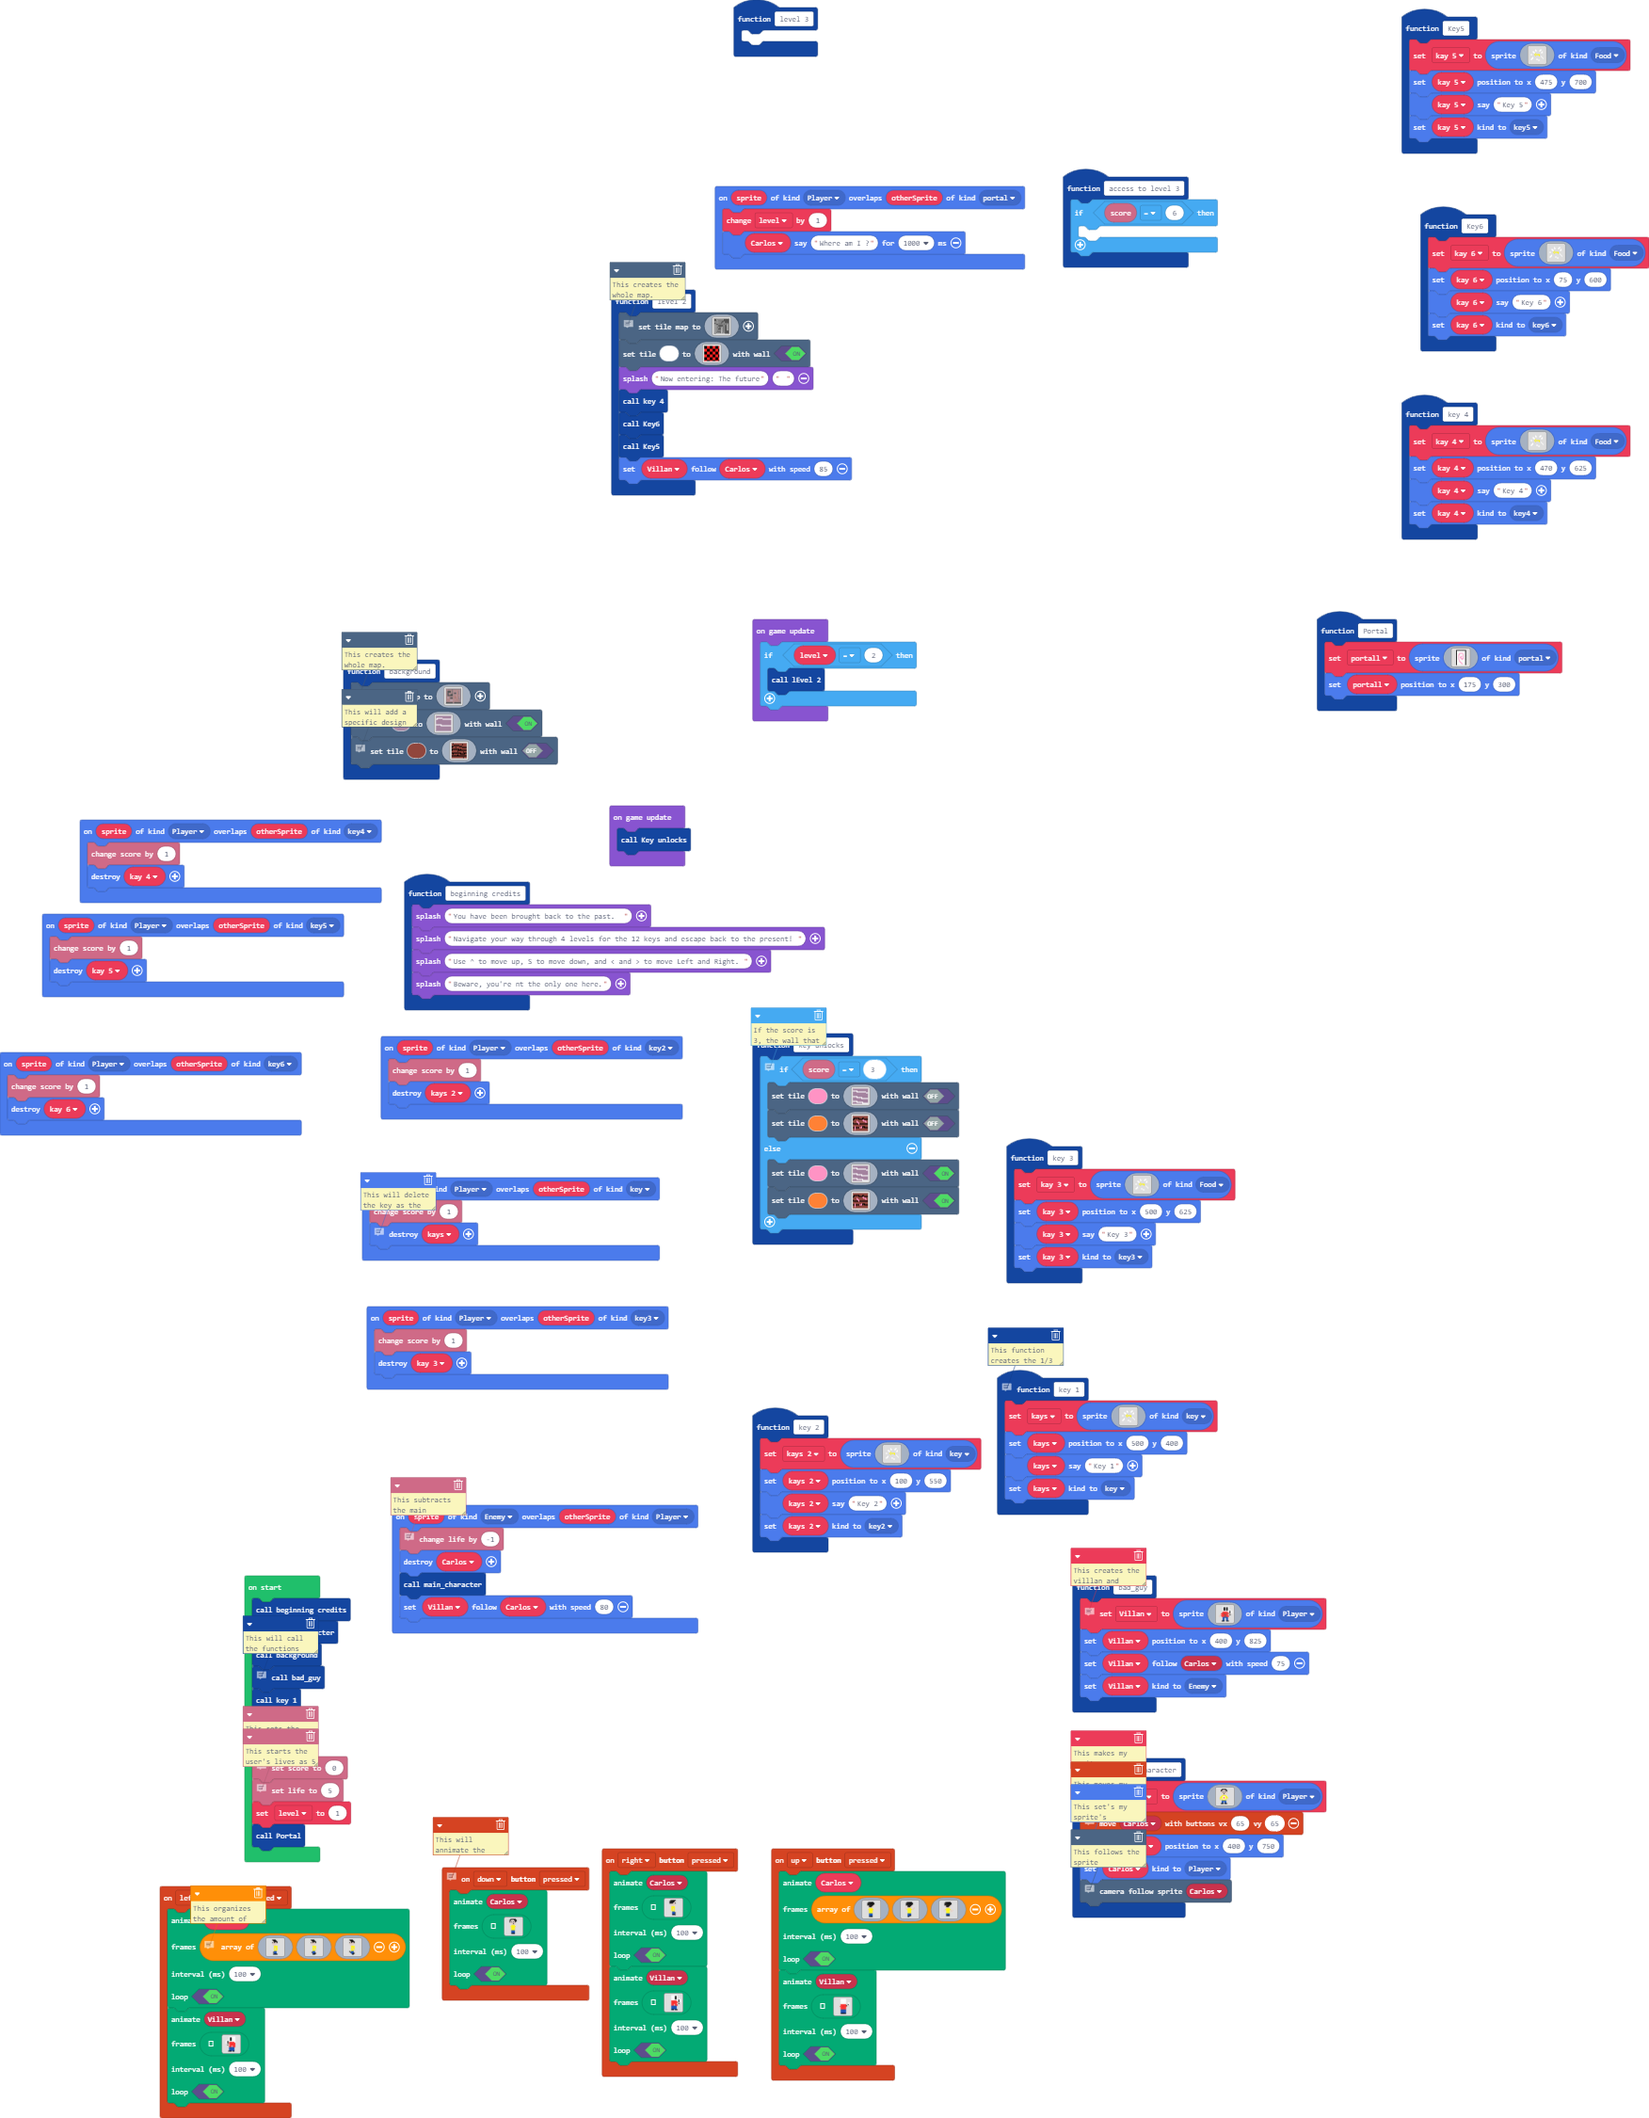
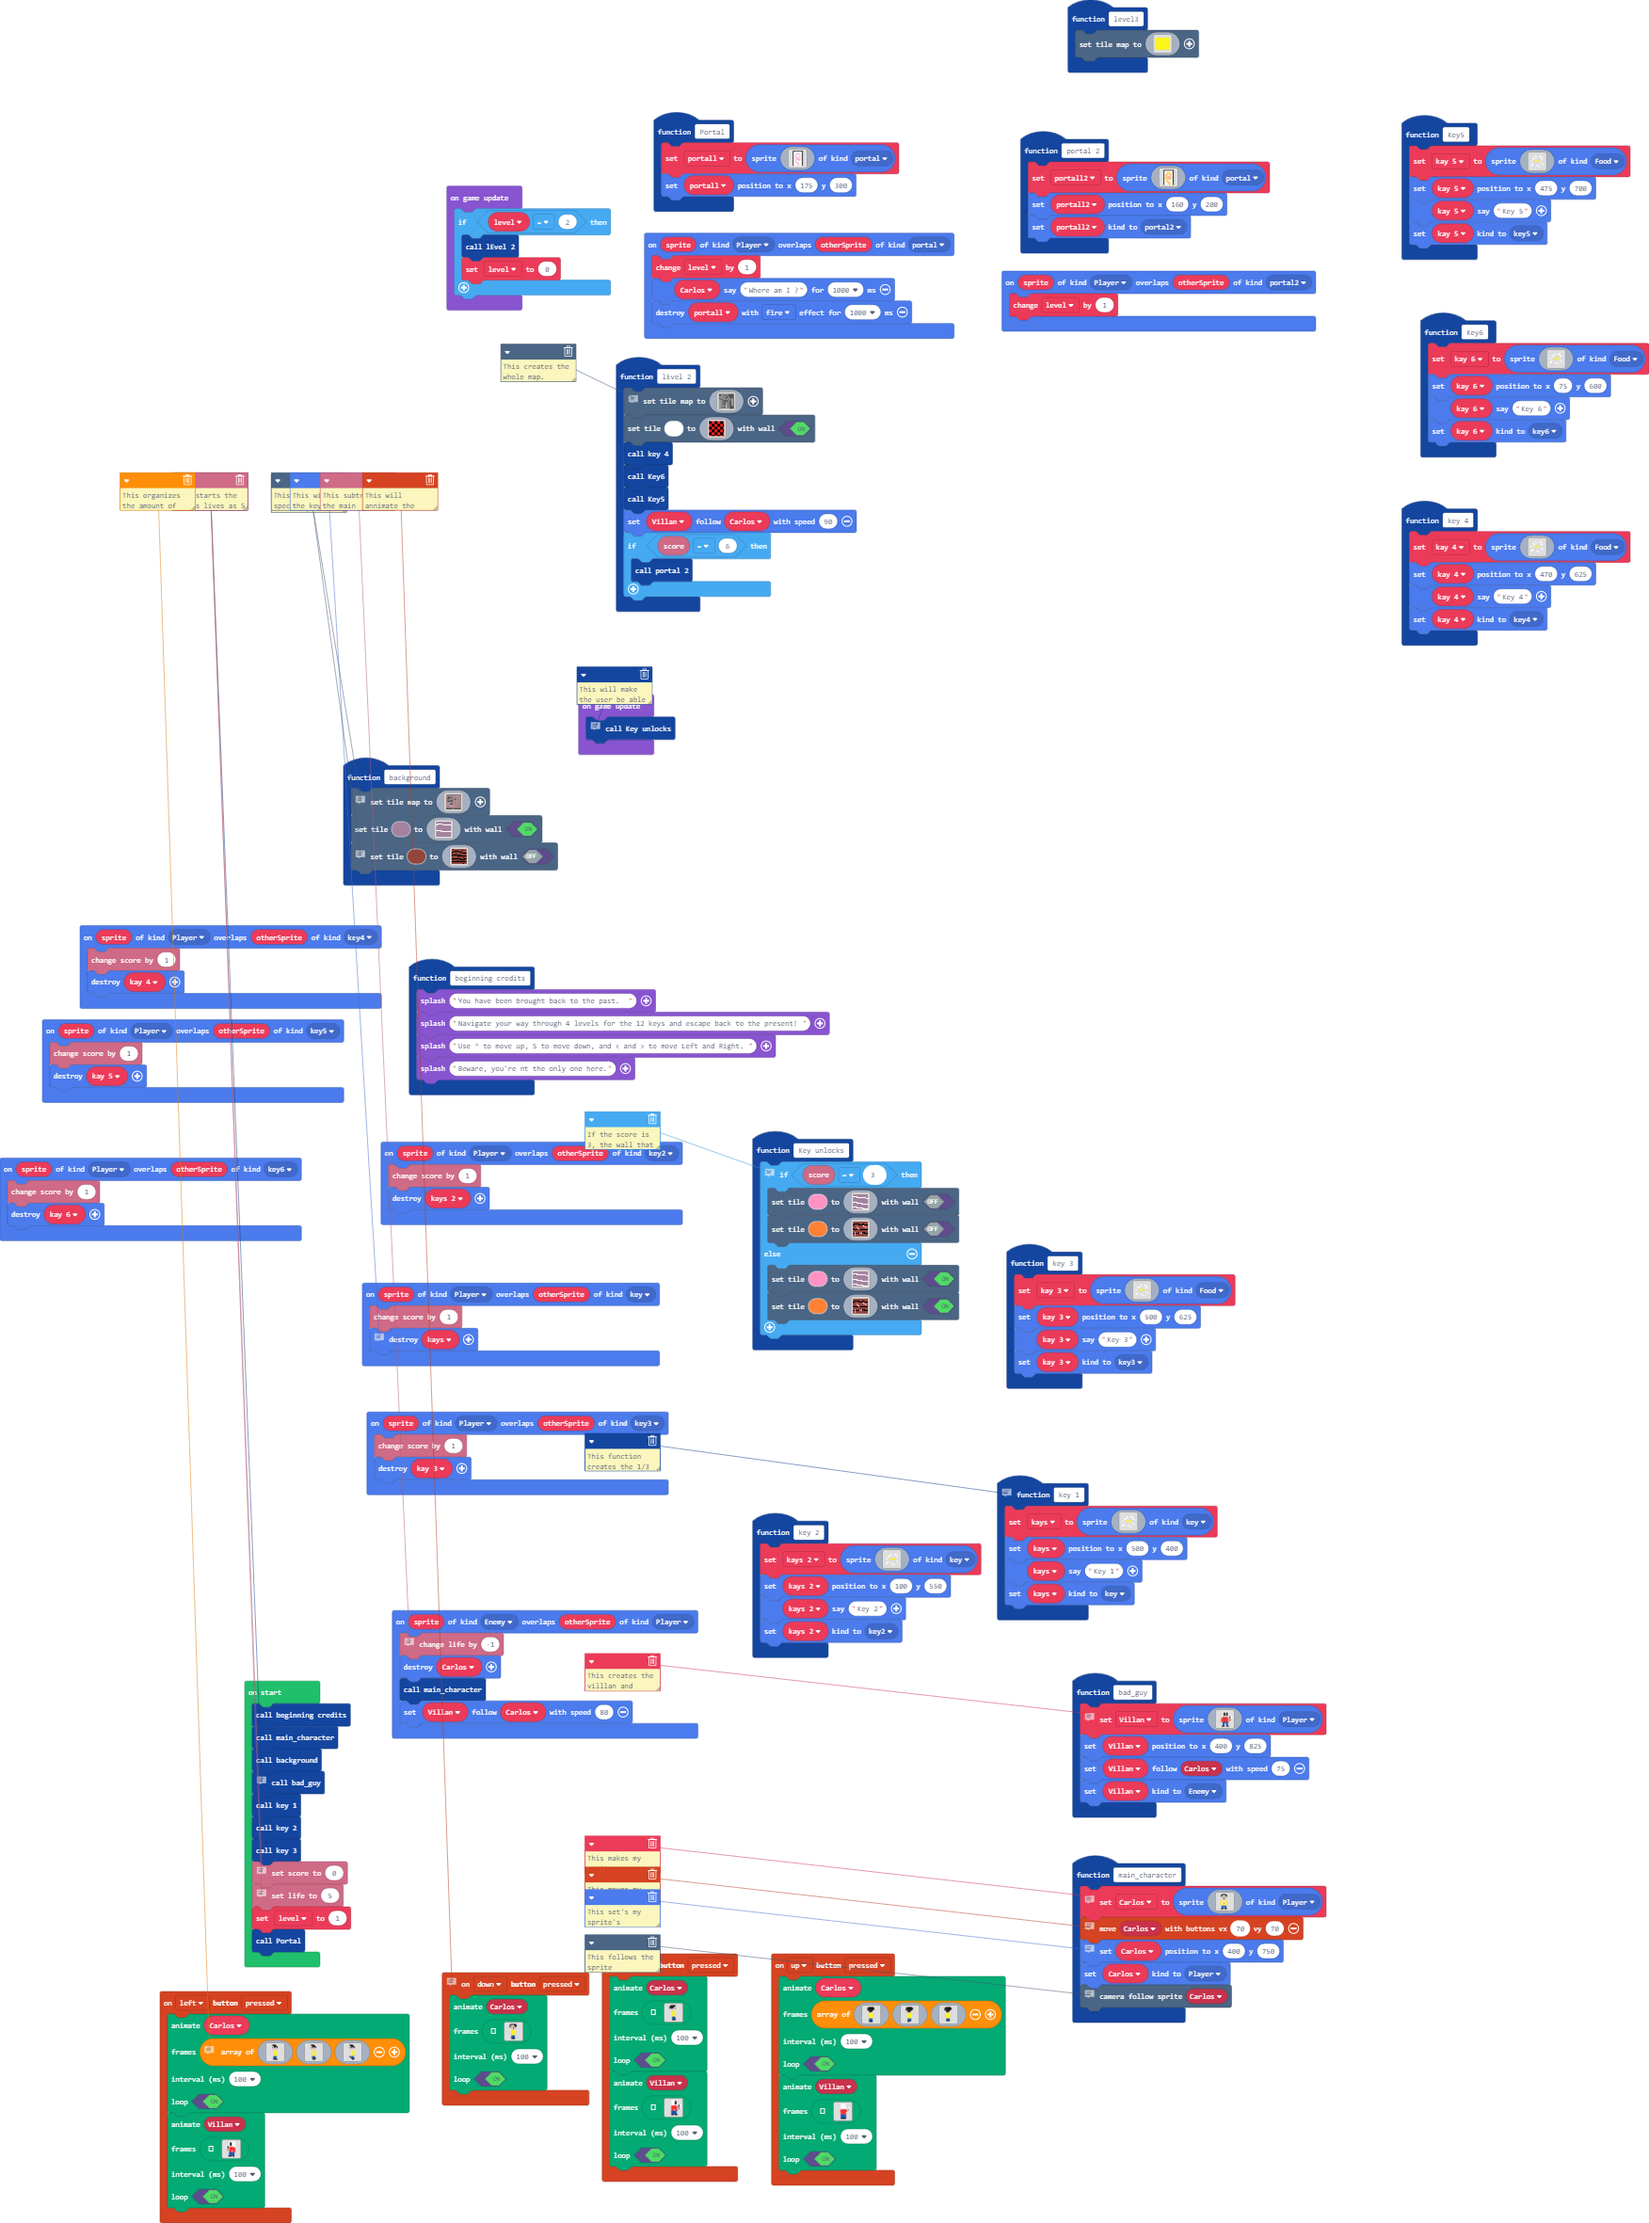
Update main.blocks, main.ts

diff --git a/main.ts b/main.ts
@@ -7,6 +7,7 @@ namespace SpriteKind {
     export const key5 = SpriteKind.create()
     export const key6 = SpriteKind.create()
     export const set1 = SpriteKind.create()
+    export const portal2 = SpriteKind.create()
 }
 namespace myTiles {
     //% blockIdentity=images._tile
@@ -53,6 +54,47 @@ function beginning_credits () {
     game.splash("Navigate your way through 4 levels for the 12 keys and escape back to the present! ")
     game.splash("Use ^ to move up, S to move down, and < and > to move Left and Right. ")
     game.splash("Beware, you're nt the only one here.")
+}
+sprites.onOverlap(SpriteKind.Player, SpriteKind.portal2, function (sprite, otherSprite) {
+    level += 1
+})
+function level3 () {
+    scene.setTileMap(img`
+5 5 5 5 5 5 5 5 5 5 
+5 5 5 5 5 5 5 5 5 5 
+5 5 5 5 5 5 5 5 5 5 
+5 5 5 5 5 5 5 5 5 5 
+5 5 5 5 5 5 5 5 5 5 
+5 5 5 5 5 5 5 5 5 5 
+5 5 5 5 5 5 5 5 5 5 
+5 5 5 5 5 5 5 5 5 5 
+`)
+}
+function portal_2 () {
+    portall2 = sprites.create(img`
+. . . . f f f f f f f f f f f f f . . . 
+. . . . f 1 1 1 1 1 1 1 1 1 1 1 f . . . 
+. . . . f 1 1 1 1 1 1 1 1 1 1 1 f . . . 
+. . . . f 1 1 1 5 5 5 5 5 1 1 1 f . . . 
+. . . . f 1 1 5 3 3 3 3 3 5 1 1 f . . . 
+. . . . f 1 1 5 3 5 5 5 5 3 5 1 f . . . 
+. . . . f 1 5 3 3 5 1 1 5 3 5 1 f . . . 
+. . . . f 1 5 3 5 1 1 1 5 3 5 1 f . . . 
+. . . . f 1 5 3 5 1 3 3 5 3 5 1 f . . . 
+. . . . f 1 5 3 5 3 3 5 5 3 5 1 f . . . 
+. . . . f 1 5 3 5 3 3 5 5 3 5 1 f . . . 
+. . . . f 1 5 3 5 5 3 3 3 3 5 1 f . . . 
+. . . . f 1 5 3 5 1 5 3 3 5 1 1 f . . . 
+. . . . f 1 1 5 3 5 1 5 5 1 1 1 f . . . 
+. . . . f 1 1 5 3 5 1 1 1 1 1 1 f . . . 
+. . . . f 1 1 5 3 3 5 1 1 1 1 1 f . . . 
+. . . . f 1 1 1 5 3 3 5 1 1 1 1 f . . . 
+. . . . f 1 1 1 1 5 3 3 5 1 1 1 f . . . 
+. . . . f 1 1 1 1 1 5 3 3 5 1 1 f . . . 
+. . . . f 1 1 1 1 1 1 5 5 1 1 1 f . . . 
+`, SpriteKind.portal)
+    portall2.setPosition(160, 200)
+    portall2.setKind(SpriteKind.portal2)
 }
 sprites.onOverlap(SpriteKind.Player, SpriteKind.key3, function (sprite, otherSprite) {
     info.changeScoreBy(1)
@@ -106,15 +148,12 @@ function main_character () {
 . . . . f f f . f f f . . . . . . 
 `, SpriteKind.Player)
     // This moves my sprite
-    controller.moveSprite(Carlos, 65, 65)
+    controller.moveSprite(Carlos, 70, 70)
     // This set's my sprite's postion/spawn point
     Carlos.setPosition(400, 750)
     Carlos.setKind(SpriteKind.Player)
     // This follows the sprite
     scene.cameraFollowSprite(Carlos)
-}
-function level_3 () {
-	
 }
 controller.left.onEvent(ControllerButtonEvent.Pressed, function () {
     // This organizes the amount of animations
@@ -337,6 +376,7 @@ sprites.onOverlap(SpriteKind.Player, SpriteKind.key5, function (sprite, otherSpr
 sprites.onOverlap(SpriteKind.Player, SpriteKind.portal, function (sprite, otherSprite) {
     level += 1
     Carlos.say("Where am I ?", 1000)
+    portall.destroy(effects.fire, 1000)
 })
 function background () {
     // This creates the whole map.
@@ -542,11 +582,13 @@ f f f 2 2 2 f f f 2 2 2 f f f 2
 f f f 2 2 2 f f f 2 2 2 f f f 2 
 2 2 2 f f f 2 2 2 f f f 2 2 2 f 
 `, true)
-    game.splash("Now entering: The future", "")
     key_4()
     Key6()
     Key5()
-    Villan.follow(Carlos, 85)
+    Villan.follow(Carlos, 90)
+    if (info.score() == 6) {
+        portal_2()
+    }
 }
 sprites.onOverlap(SpriteKind.Player, SpriteKind.key4, function (sprite, otherSprite) {
     info.changeScoreBy(1)
@@ -822,11 +864,6 @@ function key_4 () {
     kay_4.say("Key 4")
     kay_4.setKind(SpriteKind.key4)
 }
-function access_to_level_3 () {
-    if (info.score() == 6) {
-    	
-    }
-}
 sprites.onOverlap(SpriteKind.Player, SpriteKind.key6, function (sprite, otherSprite) {
     info.changeScoreBy(1)
     kay_6.destroy()
@@ -1001,15 +1038,16 @@ function Key5 () {
     kay_5.say("Key 5")
     kay_5.setKind(SpriteKind.key5)
 }
-let portall: Sprite = null
 let kay_4: Sprite = null
 let kays: Sprite = null
+let portall: Sprite = null
 let kay_5: Sprite = null
 let kays_2: Sprite = null
 let kay_6: Sprite = null
 let Carlos: Sprite = null
 let Villan: Sprite = null
 let kay_3: Sprite = null
+let portall2: Sprite = null
 beginning_credits()
 main_character()
 background()
@@ -1027,8 +1065,11 @@ Portal()
 game.onUpdate(function () {
     if (level == 2) {
         lEvel_2()
+        level = 0
     }
 })
 game.onUpdate(function () {
+    // This will make the user be able to unlock the walls
+    // by collecting the keys.
     Key_unlocks()
 })
